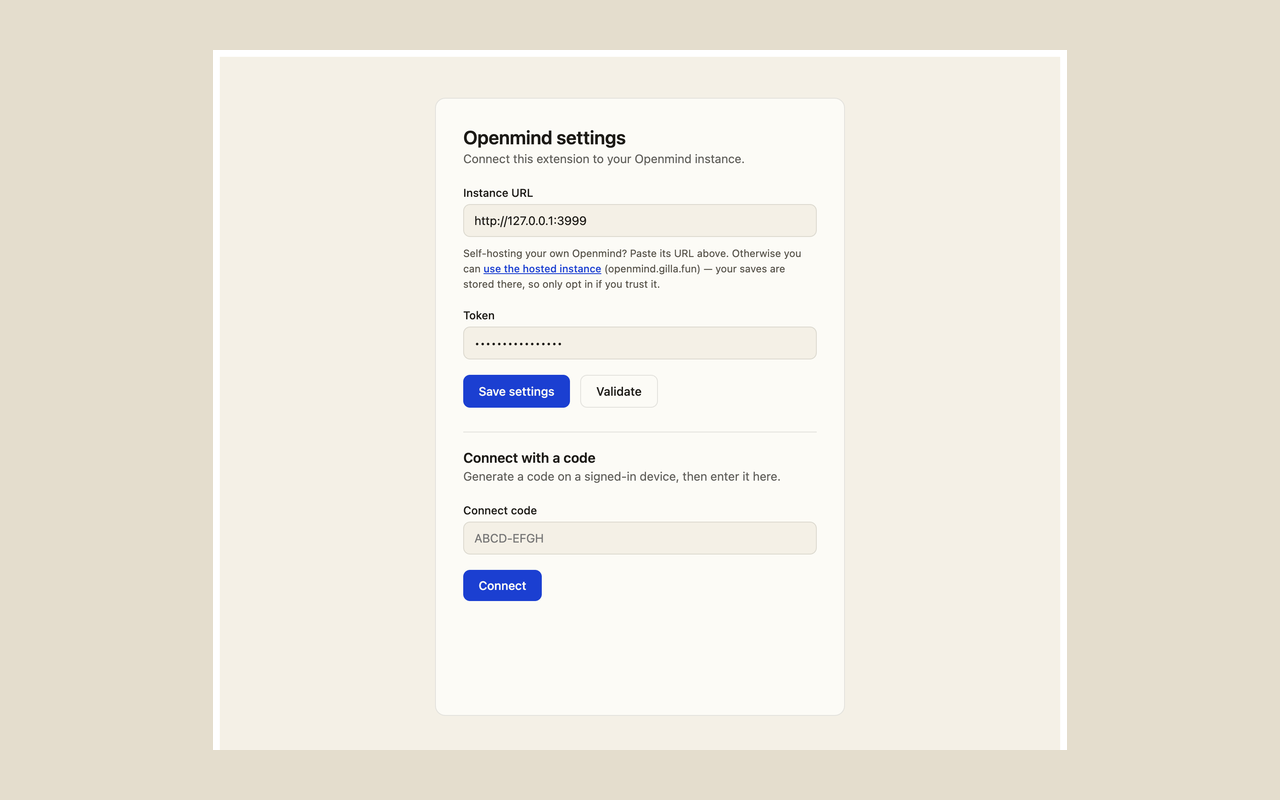
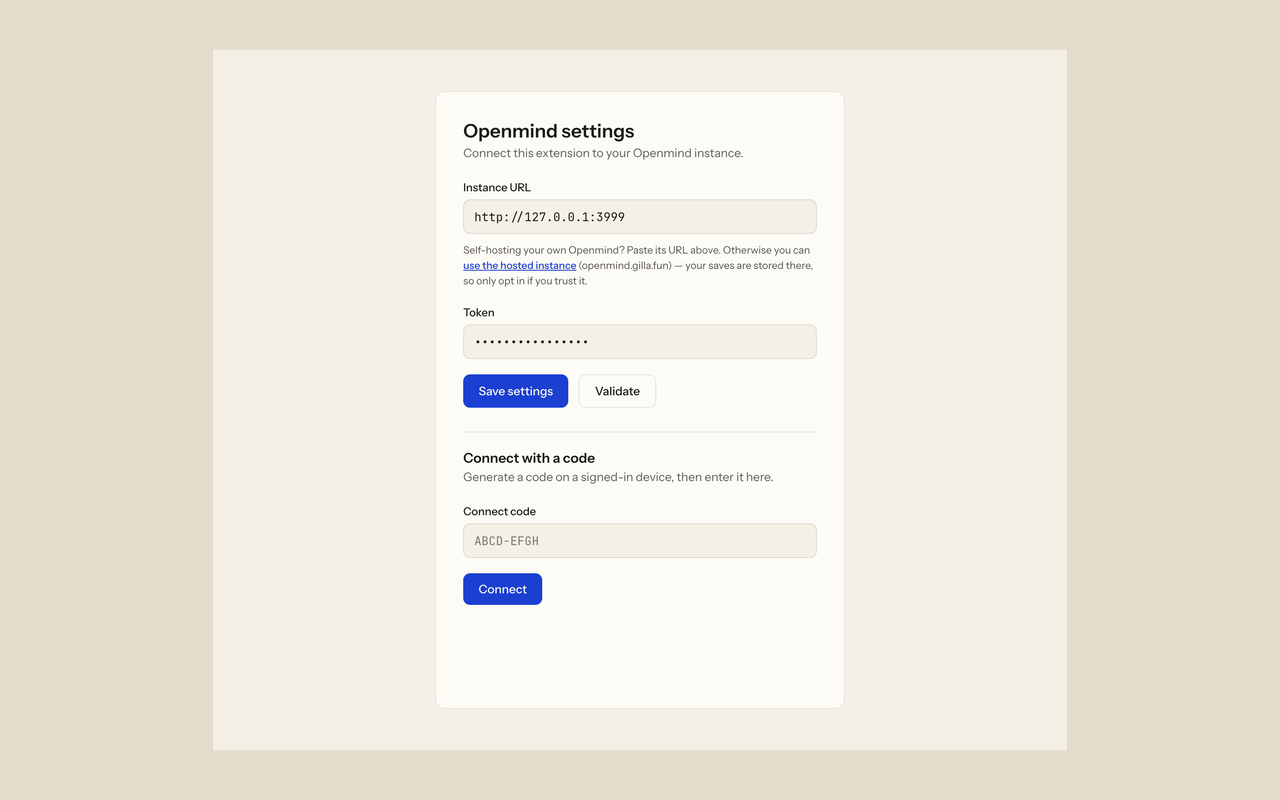
fix(extension): bundle the brand fonts instead of falling back to system-ui
The popup and options page rendered in system-ui rather than the design
system's faces. `packages/ui` tokens resolve to
`var(--font-instrument-sans), 'Instrument Sans', system-ui, …`, and only the web
app defines those custom properties — via next/font. The extension defined
nothing, so the variables resolved to nothing and every surface fell through to
the last entry in the stack. Visible on a store listing, which is where these
screens are about to be seen.

`lib/fonts.css` now self-hosts both families and maps them onto the properties
the tokens already expect, so no component changes were needed. Uses the
variable fonts' weight axis only — one file per family covering 400–700 instead
of a static file per weight, and no italic or width axes since no surface uses
them.

Fonts are bundled rather than fetched from Google at runtime. A remote font or
CSS request from an extension is a review risk, leaks a request per install to a
third party, and breaks offline. The package grows to ~203 kB zipped, still
small for the store.

Verified via `document.fonts` that both faces actually load and that a heading
computes to "Instrument Sans Variable" — declaring a family proves nothing on
its own. Store screenshots regenerated, since the committed ones showed the old
system-font rendering.

diff --git a/apps/extension/lib/fonts.css b/apps/extension/lib/fonts.css
@@ -1,0 +1,33 @@
+/* Brand fonts for the extension's own pages (popup + options).
+ *
+ * `packages/ui` tokens resolve to `var(--font-instrument-sans), 'Instrument
+ * Sans', system-ui, …`. The web app defines those custom properties via
+ * next/font; the extension has no equivalent, so before this file the variables
+ * resolved to nothing and every surface fell through to system-ui — visibly
+ * off-brand on a store listing.
+ *
+ * Self-hosted deliberately: an extension must never fetch CSS or fonts from
+ * Google at runtime. That's a review risk, leaks a request per install to a
+ * third party, and breaks when offline. These are bundled into the package.
+ *
+ * `wght.css` is the upright weight-axis-only subset of each variable font — one
+ * file per family covering 400–700, rather than a static file per weight. No
+ * italic or width axes are shipped because no extension surface uses them.
+ */
+@import "@fontsource-variable/instrument-sans/wght.css";
+@import "@fontsource-variable/jetbrains-mono/wght.css";
+
+:root {
+  --font-instrument-sans: "Instrument Sans Variable";
+  --font-jetbrains-mono: "JetBrains Mono Variable";
+}
+
+/* The popup and options pages render into a bare document, so give the body the
+ * same baseline the web app's layout sets. Individual components still set their
+ * own families via the tokens; this only stops a flash of Times on first paint.
+ */
+body {
+  margin: 0;
+  font-family: var(--font-instrument-sans), "Instrument Sans", system-ui, sans-serif;
+  -webkit-font-smoothing: antialiased;
+}

diff --git a/apps/extension/entrypoints/options/main.tsx b/apps/extension/entrypoints/options/main.tsx
@@ -1,5 +1,6 @@
 import React from "react";
 import ReactDOM from "react-dom/client";
+import "../../lib/fonts.css";
 import { Options } from "./Options";
 
 ReactDOM.createRoot(document.getElementById("root")!).render(

diff --git a/apps/extension/entrypoints/popup/main.tsx b/apps/extension/entrypoints/popup/main.tsx
@@ -1,5 +1,6 @@
 import React from "react";
 import ReactDOM from "react-dom/client";
+import "../../lib/fonts.css";
 import { Popup } from "./Popup";
 
 ReactDOM.createRoot(document.getElementById("root")!).render(

diff --git a/docs/20260731-chrome-web-store-listing.md b/docs/20260731-chrome-web-store-listing.md
@@ -160,20 +160,21 @@ library.
       one flow no automated run has exercised.
 - [ ] Confirm the install-time permission warning mentions no host access
 - [ ] Register the developer account (one-time US$5) and complete verification
-- [ ] Decide on the extension UI font gap (below) before or after first submit
 - [ ] Optional promo tiles: 440×280 small, 1400×560 marquee
 
-## Known cosmetic gap
+## Brand fonts (resolved)
 
-The popup and options page render in the **system font**, not the brand faces.
-`packages/ui` tokens reference `var(--font-instrument-sans)` etc., which the web
-app defines via `next/font`; the extension has no equivalent, so the variables
-resolve to nothing and the stack falls through to `system-ui`. Visible in
-`extension-options.png`.
+The popup and options page used to render in `system-ui`: `packages/ui` tokens
+reference `var(--font-instrument-sans)` etc., which only the web app defines via
+`next/font`, so in the extension the variables resolved to nothing.
 
-Not a submission blocker — plenty of extensions use system fonts, and a small
-popup arguably reads better that way. To fix, self-host the faces in the
-extension (e.g. `@fontsource/instrument-sans` + `@fontsource/jetbrains-mono`
-plus an `@font-face` block in the popup/options entrypoints). Do not load them
-from Google Fonts at runtime: remote CSS/font fetches in an extension are a
-review risk and break the offline case.
+Now fixed — `apps/extension/lib/fonts.css` bundles Instrument Sans and JetBrains
+Mono as **self-hosted variable fonts** (`@fontsource-variable/*`, weight axis
+only) and maps them onto those custom properties. Both entrypoints import it.
+Verified with `document.fonts` that the faces load and that headings actually
+resolve to `Instrument Sans Variable` rather than merely declaring it.
+
+Fonts are bundled, never fetched from Google at runtime: a remote CSS/font
+request in an extension is a review risk, leaks a request per install to a third
+party, and breaks offline. The package is ~350 kB total as a result, which is
+still small for the store.

diff --git a/apps/extension/README.md b/apps/extension/README.md
@@ -92,7 +92,15 @@ origin you configure, at the moment you configure it:
   straight through to the Go API. Recent-saves needs an up-to-date web app —
   the `GET /api/items` proxy handler was added alongside this popup, so
   self-hosters must redeploy the web app to see the recent list populate.
-- Icons under `public/icon/` are placeholder solid-cobalt (`#2438FF`) squares —
-  replace them before any store submission.
+- Icons under `public/icon/` are the Openmind mark (a cobalt card with three
+  fading text lines), matching the web app's sidebar wordmark. `16.png` is drawn
+  separately at integer coordinates rather than scaled down, so it stays crisp
+  in the toolbar; vector sources live in `docs/store/`.
+- Brand fonts are **bundled**, not fetched. `lib/fonts.css` self-hosts Instrument
+  Sans and JetBrains Mono via `@fontsource-variable/*` (weight axis only, one
+  file per family) and maps them onto the `--font-*` custom properties that
+  `packages/ui` tokens expect — the web app defines those via `next/font`, which
+  the extension has no equivalent for. Never switch this to a Google Fonts URL:
+  remote font/CSS requests in an extension are a review risk and break offline.
 - `pnpm --filter extension zip` (and `zip:firefox`) produce the store upload
   archives in `.output/`.

diff --git a/TODO.md b/TODO.md
@@ -34,12 +34,6 @@
   alone unless the maintainer reopens it.
 
 ## Next
-- **Extension UI falls back to system fonts.** `packages/ui` tokens reference
-  `var(--font-instrument-sans)` etc., which only the web app defines via
-  `next/font`; the extension defines nothing, so the popup and options page
-  render off-brand. Fix by self-hosting the faces in the extension (fontsource
-  + `@font-face`), never by fetching Google Fonts at runtime. Cosmetic, not a
-  store blocker — see the store listing doc.
 - (see Issues)
 
 ## Later
